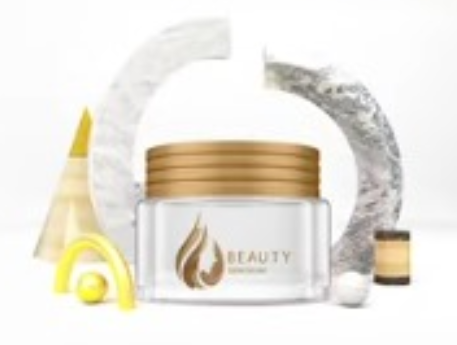
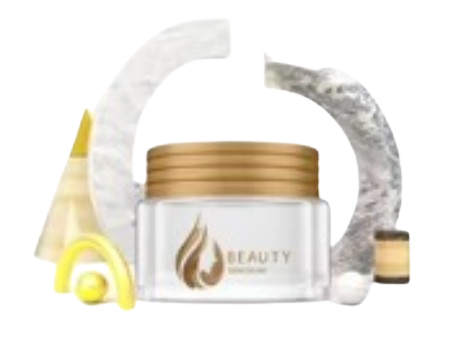
ABOUT US

diff --git a/src/components/Header.jsx b/src/components/Header.jsx
@@ -2,8 +2,8 @@ import React from "react";
 
 const Header = () => {
   return (
-    <div className="relative isolate px-6  lg:px-20">
-      {/* <div
+    <div className="relative isolate px-6 lg:px-20">
+      <div
         aria-hidden="true"
         className="absolute inset-x-0 -top-40 -z-10 transform-gpu overflow-hidden blur-3xl sm:-top-80"
       >
@@ -14,14 +14,14 @@ const Header = () => {
           }}
           className="relative left-[calc(50%-11rem)] aspect-1155/678 w-[36.125rem] -translate-x-1/2 rotate-[30deg] bg-linear-to-tr from-[#ff80b5] to-[#9089fc] opacity-30 sm:left-[calc(50%-30rem)] sm:w-[72.1875rem]"
         />
-      </div> */}
-      <div className="w-full h-[100vh] md:flex md:mt-0 mt-28">
+      </div>
+      <div className="w-full h-[90vh] md:flex md:mt-0 mt-28 md:text-left text-center">
         <div className="content md:w-[50%] md:h-full w-full flex flex-col justify-center">
-          <h1 className="xl:text-7xl lg:text-5xl md:text-4xl text-4xl font-semibold xl:leading-[4.7rem] lg:leading-[3.5rem] tracking-wider text-purple-800">
+          <h1 className="xl:text-7xl lg:text-[3.3rem] md:text-4xl text-4xl font-semibold xl:leading-[4.7rem] lg:leading-[3.5rem] tracking-wider text-purple-800">
             Unveil <br /> <span className="text-black">Your Royal Glow</span>{" "}
             <br /> with Zartaaj
           </h1>
-          <p className="text-gray-600 xl:text-xl lg:text-md md:text-sm text-sm mt-8">
+          <p className="text-gray-600 xl:text-xl lg:text-[.95rem] md:text-sm text-sm mt-8">
             At Zartaaj, we believe that beauty is more than just skin deep—it's
             an experience of pure elegance and confidence. Our premium beauty
             creams are crafted with the finest ingredients to nourish, hydrate,
@@ -32,7 +32,7 @@ const Header = () => {
         </div>
         <div className="md:w-[50%] w-full image flex justify-center items-center md:mt-0 mt-10">
           <img
-            className=" object-cover rounded-full"
+            className=" object-cover w-full"
             src="./src/assets/header.png"
             alt="Zartaaj Royal Glow"
           />

diff --git a/src/components/AboutUs.jsx b/src/components/AboutUs.jsx
@@ -1,0 +1,40 @@
+import React from "react";
+
+const AboutUs = () => {
+  return (
+    <>
+      <div className="w-full lg:min-h-[46vh] h-auto  md:flex justify-center items-center  px-6  lg:px-16 bg-[#ededed]">
+        <div className="md:w-[50%] w-full image flex justify-center items-center md:mt-0 mt-10">
+          <img
+            className=" object-cover w-full h-[90%]"
+            src="./src/assets/header.png"
+            alt="Zartaaj Royal Glow"
+          />
+        </div>
+        <div className="Content md:w-[50%] h-full xl:pl-14 lg:pl-6 py-4 md:mt-0 mt-6 md:text-left text-center">
+          <h1 className="xl:text-2xl lg:text-xl text-purple-800 font-bold mb-4">
+            ABOUT US
+          </h1>
+          <h1 className="uppercase xl:text-6xl lg:text-5xl md:text-4xl text-4xl font-semibold xl:leading-[4.4rem] lg:leading-[3.4rem] tracking-wider text-black">
+            <span className="text-purple-800">day & night</span>
+            <br />
+            premium cream
+          </h1>
+          <p className="text-gray-600 xl:text-xl lg:text-[1rem] text-sm lg:mt-8 mt-5 xl:pr-0 lg:pr-8 md:pr-2 pr-0">
+            Beauty isn’t just a routine—it’s a statement. At Zartaaj, we
+            redefine skincare with scientifically crafted formulas that enhance
+            your natural glow. Infused with premium ingredients, our beauty
+            creams work to nourish, repair, and revitalize your skin. Step into
+            a world where luxury meets self-care, and let your skin shine with
+            confidence
+          </p>
+          <button className="bg-purple-800 px-4 py-2 mt-4 rounded-md text-white font-semibold">
+            About More
+          </button>
+        </div>
+      </div>
+    </>
+  );
+};
+
+export default AboutUs;

diff --git a/src/pages/Home.jsx b/src/pages/Home.jsx
@@ -1,10 +1,12 @@
 import React from 'react'
 import Header from '../components/Header'
+import AboutUs from '../components/AboutUs'
 
 const Home = () => {
   return (
-    <div className='w-full h-screen'>
+    <div className='w-full h-auto'>
       <Header/>
+      <AboutUs/>
     </div>
   )
 }
